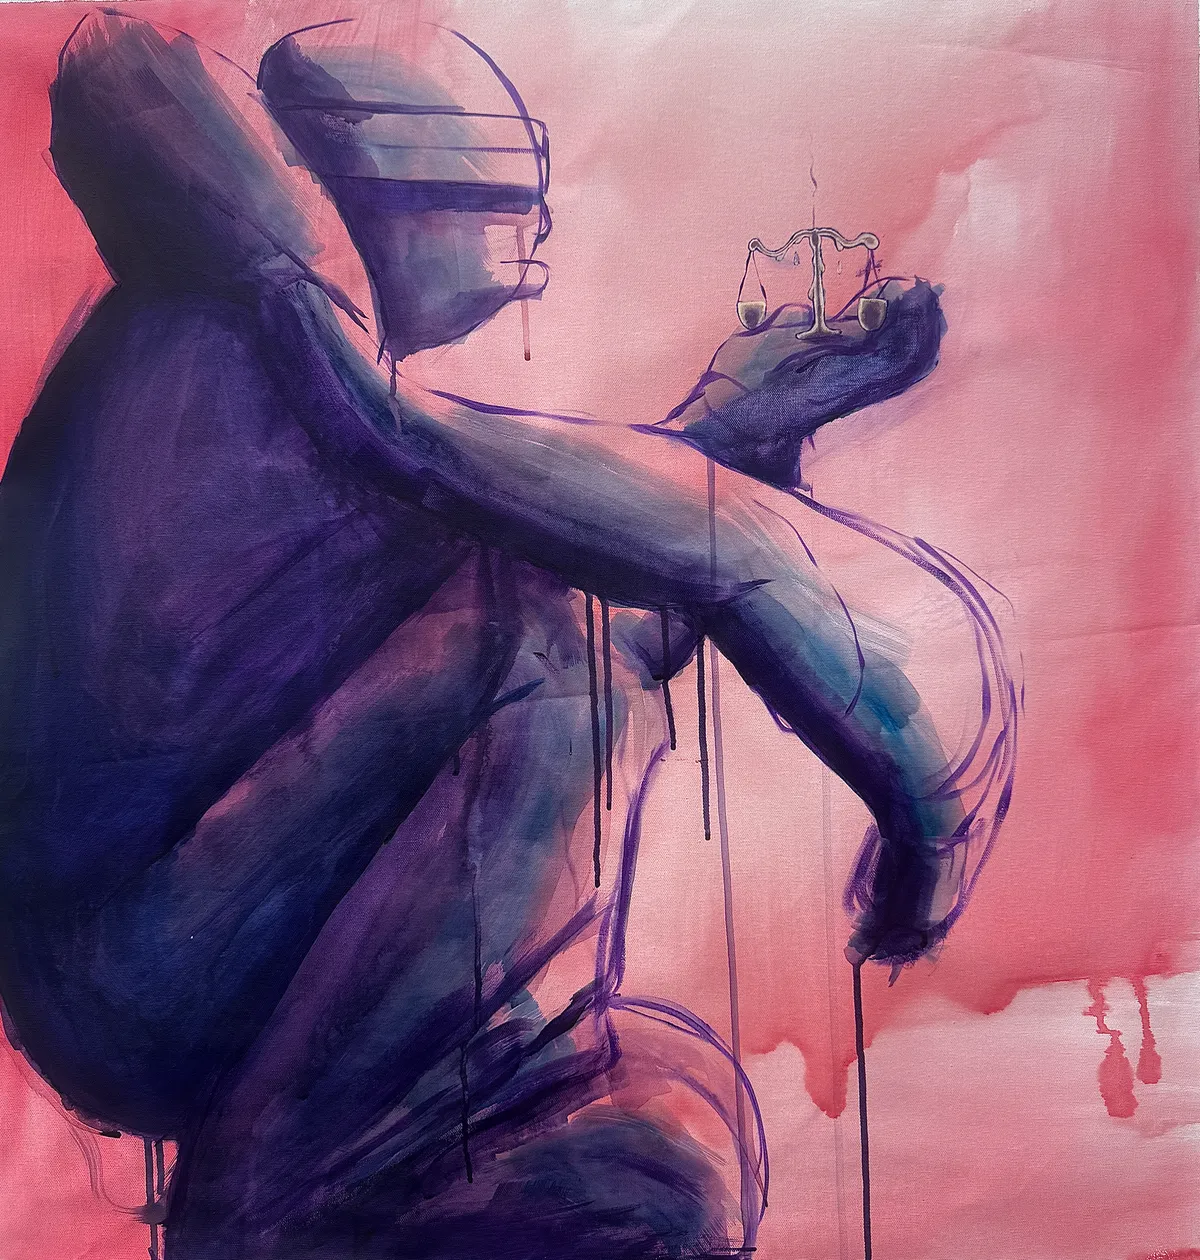
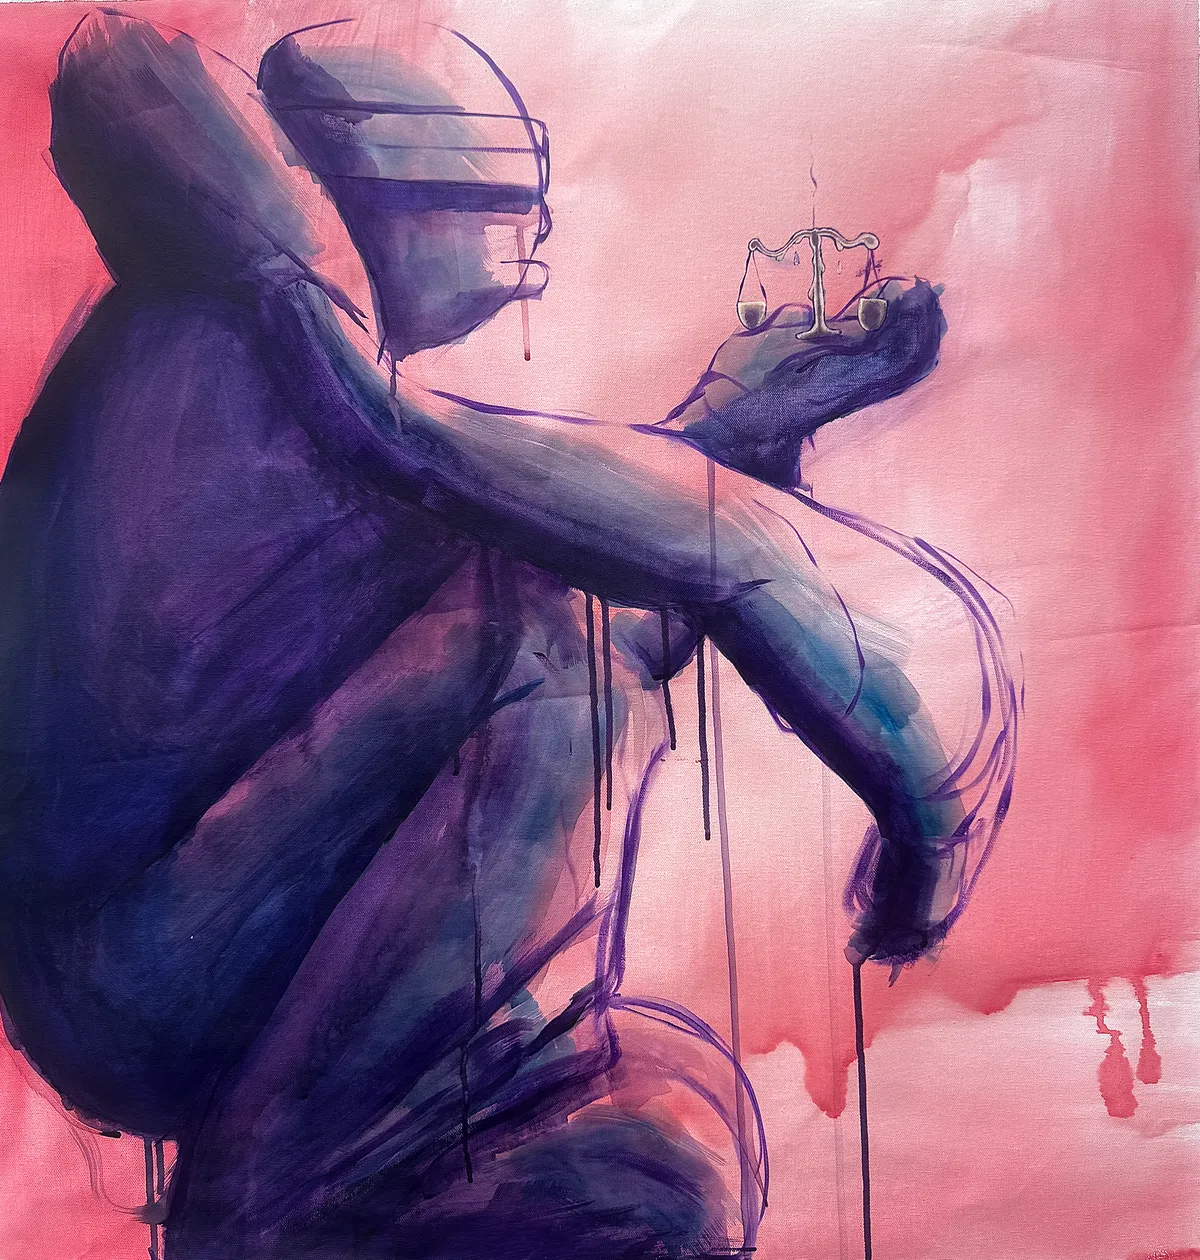
product updates

diff --git a/src/siteinfo/products.tsx b/src/siteinfo/products.tsx
@@ -86,8 +86,8 @@ export const products = {
 
         {
             id: 5,
-            name: "Heavy",
-            slug: "heavy",
+            name: "Look Up",
+            slug: "look-up",
             medium: "Acrylic paint and marker on canvas",
             size: "12 x 12 inches",
             price: 250,
@@ -97,11 +97,11 @@ export const products = {
                 {sizes: "24 x 24 in.", price: 150},
                 {sizes: "36 x 36 in.", price: 275},
             ],
-            images: ["/assets/products/heavy-large.webp", "/assets/products/mockups/heavy_mockup-large.webp",],
-            productImage: "/assets/products/heavy.jpg",
-            thumbnail:["/assets/products/heavy-thumbnail.webp", ],
+            images: ["/assets/products/lookup-large.webp", "/assets/products/mockups/lookup_mockup-large.webp",],
+            productImage: "/assets/products/lookup.jpg",
+            thumbnail:["/assets/products/lookup-thumbnail.webp", ],
             description: "",
-            year: "2022"
+            year: "2024"
 
 
         },
@@ -166,7 +166,7 @@ export const products = {
             name: "Look Up",
             slug: "look-up",
             medium: "Acrylic on canvas",
-            size: "4 x 3 feet",
+            size: "38 x 38 inches",
             price: 1100,
             images: ["/assets/products/lookup-large.webp"],
             productImage: "/assets/products/lookup.JPG",
